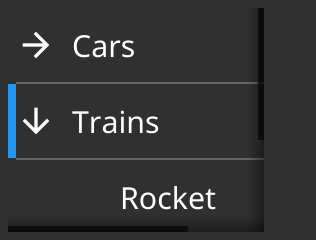
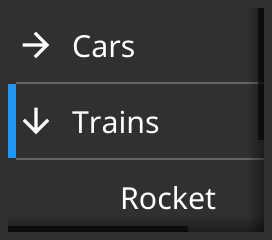
Fix broken image sizes

diff --git a/_gen/genwidgets.go b/_gen/genwidgets.go
@@ -138,7 +138,7 @@ func makeTree() *widget.Tree {
 	data := make(map[string][]string)
 	data[""] = []string{"Cars", "Trains"}
 	data["Cars"] = []string{"Ford", "Tesla", "Jaguar"}
-	data["Trains"] = []string{"Rocket", "TGV", "Eurotar"}
+	data["Trains"] = []string{"Rocket", "TGV", "Eurostar"}
 
 	t := widget.NewTreeWithStrings(data)
 	t.OpenBranch("Trains")
@@ -164,7 +164,6 @@ func draw(obj fyne.CanvasObject, name string, c fyne.Canvas, themeName string) {
 	} else if name == "separator" {
 		c.(test.WindowlessCanvas).Resize(obj.MinSize().Add(fyne.NewSize(120+theme.Padding()*2, theme.Padding()*2)))
 	} else if name == "list" || name == "table" || name == "tree" || name == "accordion" {
-		obj.Resize(fyne.NewSize(136, 120))
 		c.(test.WindowlessCanvas).Resize(fyne.NewSize(136, 120))
 		test.TapCanvas(c, fyne.NewPos(50, 50))
 	}
